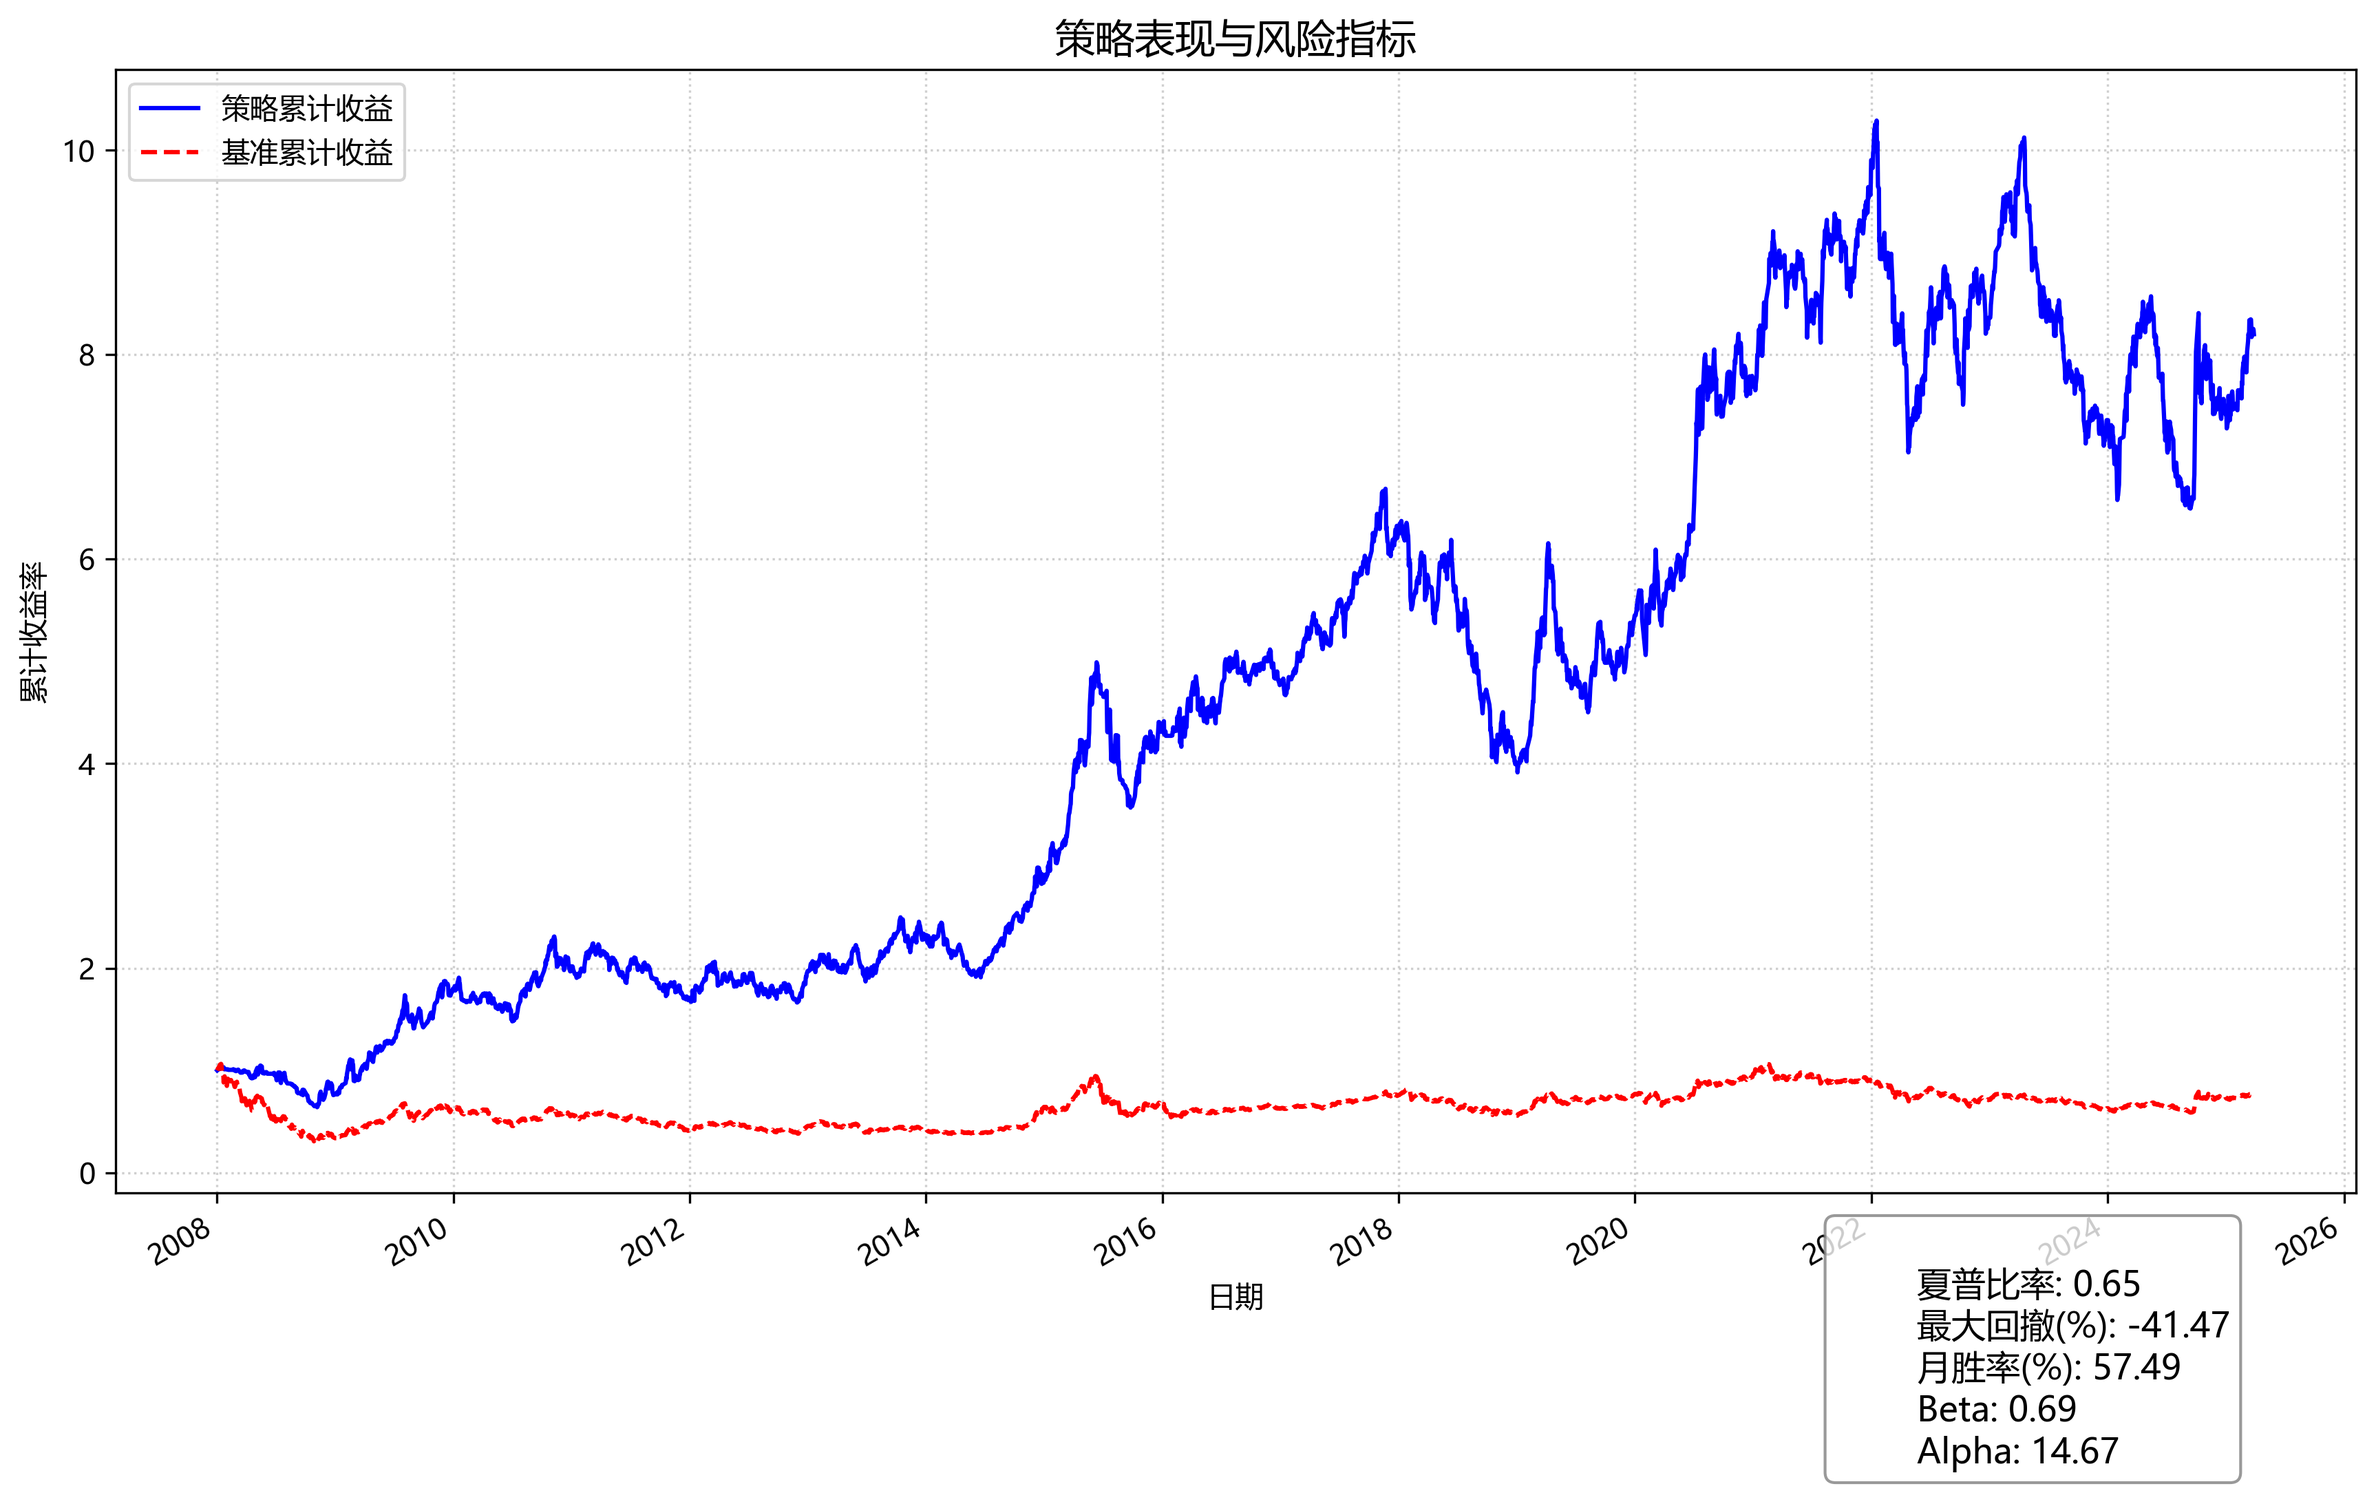
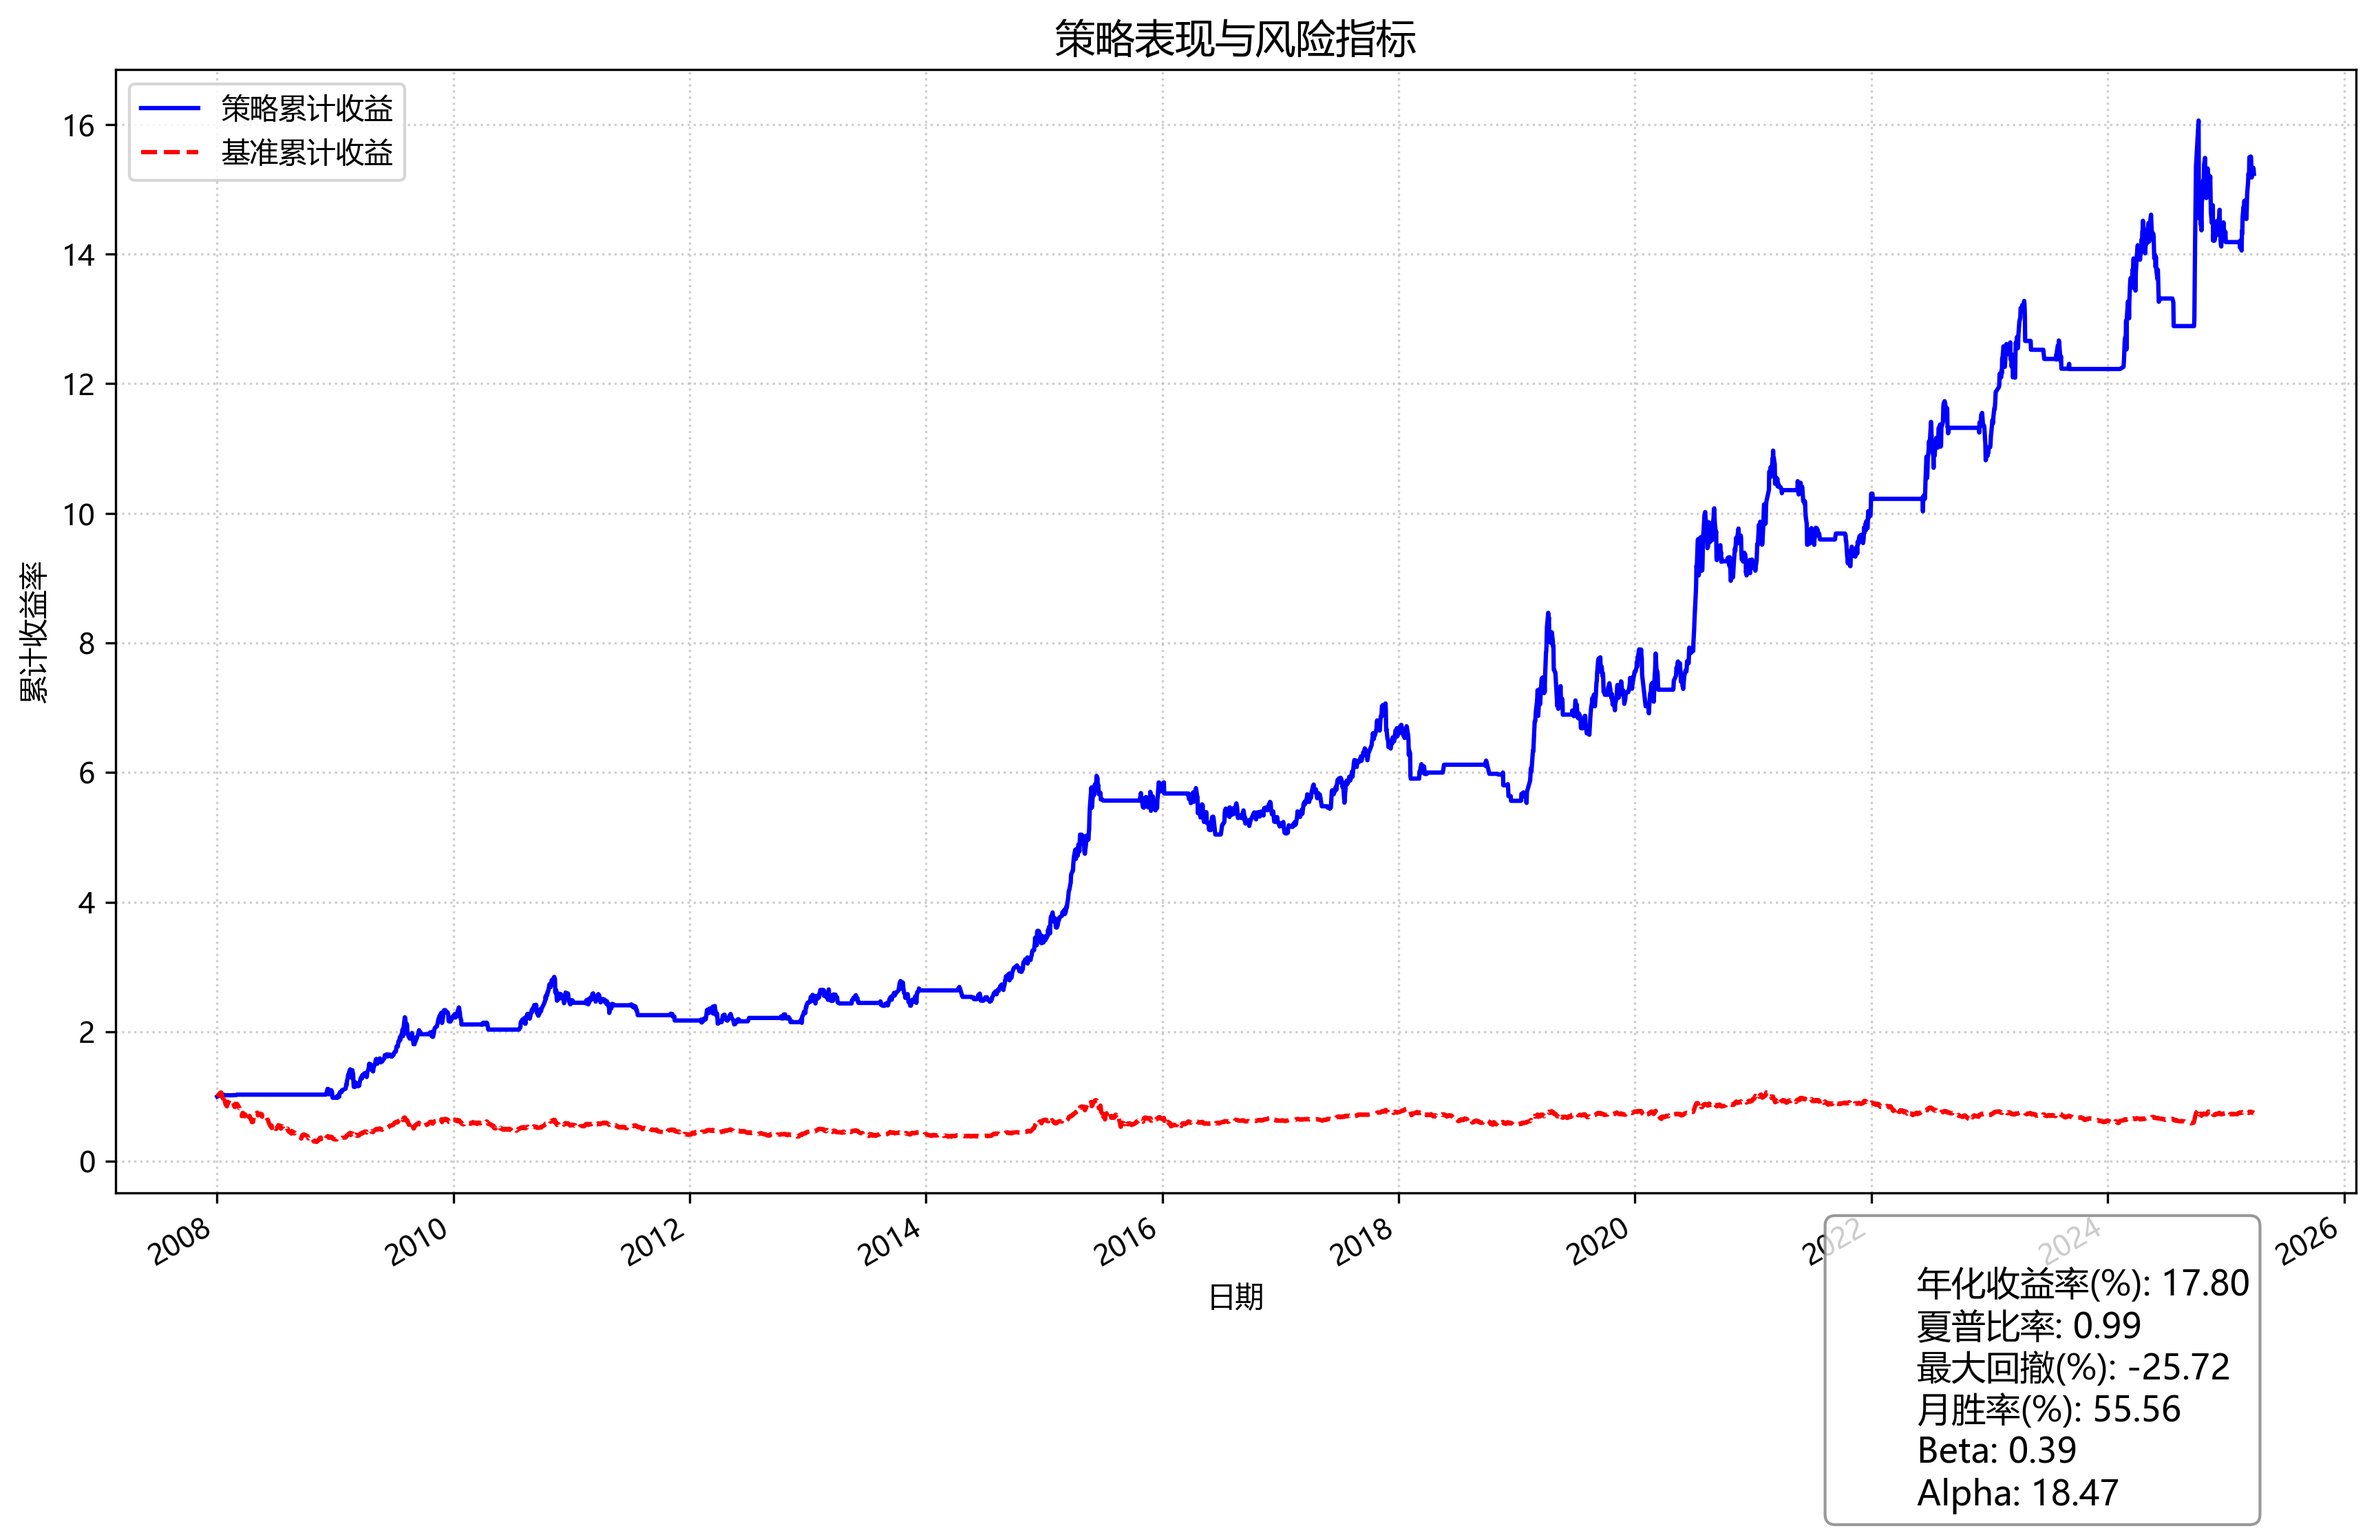
dev strategy

diff --git a/simple_backtrade/strategy/kaimin.py b/simple_backtrade/strategy/kaimin.py
@@ -104,12 +104,16 @@ class BaseStrategy:
 
         return stock_yoy_gr_mean
     
-    def handle_bar(self,date:str)->pandas.DataFrame:
+    def handle_bar(self,date:datetime)->pandas.DataFrame:
         keeps_num=20
 
-        baseline=self.data_manager.get_recent_baseline(date,1).close.iloc[0]
-        baseline_m400=self.data_manager.get_recent_baseline(date,200).close.mean()
-        baseline_negative=(baseline<baseline_m400)
+        baseline=self.data_manager.get_recent_baseline(date,1).close.mean()
+        m60_t1=self.data_manager.get_recent_baseline(date-timedelta(days=1),60).close.mean()
+        m60_t0=self.data_manager.get_recent_baseline(date-timedelta(days=0),60).close.mean()
+        # baseline_m40=self.data_manager.get_recent_baseline(date,40).close.mean()
+        baseline_negative=(m60_t1>m60_t0 and m60_t0>baseline)
+        if baseline_negative:
+             return pandas.DataFrame()
 
 
         market_data=self.data_manager.get_daily_market_data(date,self.stock_factors.index)

diff --git a/run.py b/run.py
@@ -18,6 +18,7 @@ if __name__=='__main__':
     param_list=list(np.arange(2008,2026))
     with Pool(len(param_list)) as p:
         analyze_results=p.map(task,param_list)
+    # task(2008)
     
     daily_returns=pandas.concat([analyze_result['daily_returns'] for analyze_result in analyze_results])
     benchmark=pandas.concat([analyze_result['benchmark'] for analyze_result in analyze_results])

diff --git a/simple_backtrade/log.py b/simple_backtrade/log.py
@@ -83,6 +83,7 @@ class TradeLogger:
 
         # 添加指标文本（使用相对坐标定位）
         text_content = f"""
+        年化收益率(%): {analysis['年化收益率(%)']:.2f}
         夏普比率: {analysis['日夏普比率']:.2f}
         最大回撤(%): {analysis['最大回撤(%)']:.2f}
         月胜率(%): {analysis['月胜率(%)']:.2f}
